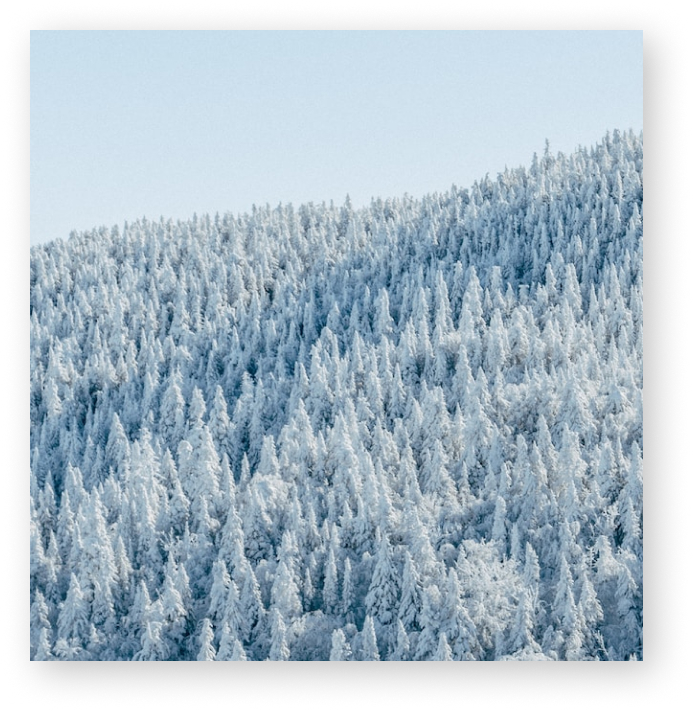
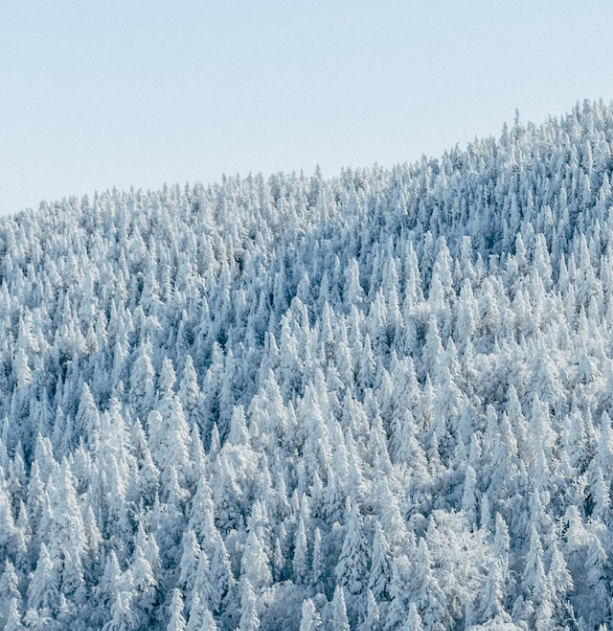
.

diff --git a/test.css b/test.css
@@ -1,7 +1,7 @@
 /* 전체화면 */
 .wrap{
     border:5px solid #ff0000; /*두께 5px 직선 빨강(임시선)*/
-    width: 1750px;
+    width: 1920px;
     margin: auto;
 }
 
@@ -11,7 +11,7 @@
     font-family: 'Inter';
     font-weight: 500;
     font-size: 36px;
-    margin: 57px 0px;
+    margin: 57px 84px 57px 0px;
 }
 /* 메뉴의 각 링크(메뉴>a) */
 .menu>a{
@@ -20,6 +20,11 @@
     margin: 0px 0px 0px 60px;
 }
 /* ----- ----- ----- ----- ----- */
+/* 배너 */
+.banner{
+    margin: 0 85px;
+}
+
 /* 배너사진 */
 img.bannerPhoto{
     width: 1750px;
@@ -31,6 +36,10 @@ img.bannerPhoto{
     height: 159px;
 }
 /* ----- ----- ----- ----- ----- */
+/* 컨텐츠 */
+.contents{
+    margin: 0 85px 176px 85px;
+}
 /* 공통 버튼 */
 .txt-1>a, .txt-3>div>a{
     color:black;
@@ -68,8 +77,16 @@ img.bannerPhoto{
     display: flex;
     align-items: center;
 }
-.txt-2>div, .txt-3>div{width:50%}
-.txt-2>div>img, .txt-3>div>img{width:100%}
+.txt-2>div>img{
+    width: 765px;
+    height: 549px;
+    margin: 0 89px 0 0;
+}
+
+.txt-3>div>img{
+    width: 613px;
+    height: 631px;
+}
 
 .txt-2>div>b, .txt-3>div>b{
     font-size: 40px;
@@ -78,11 +95,11 @@ img.bannerPhoto{
     font-weight: 400;
     font-size: 34px;
     color: #545454;
-
 }
 /* ----- */
 .txt-3{
     flex-direction: row-reverse;
+    justify-content: end;
 }
 /* ----- ----- ----- ----- ----- */
 
